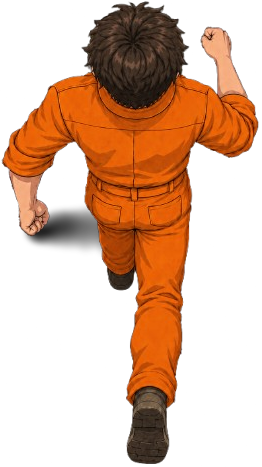
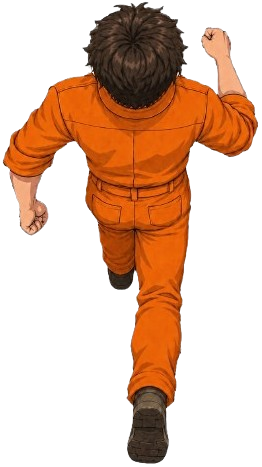
Added and removed game images

diff --git a/The Last Escape/Level1Variables.h b/The Last Escape/Level1Variables.h
@@ -51,27 +51,26 @@ bool playerRun = false;
 int playerFrame = 0;
 
 int guardX = 40;
-int guardY = 271;
+int guardY = 281;
 
 bool moveRight = true;
 int guardFrame = 0;
 int guardAnimCounter = 0;
 
-const int L1_GUARD_W = 85;    // was 75
-const int L1_GUARD_H = 115;   // was 105
+const int L1_GUARD_W = 85;    
+const int L1_GUARD_H = 115;   
 const int L1_PLAYER_RUN_W = 105;
 const int L1_PLAYER_RUN_H = 165;
-const int L1_PLAYER_STAND_W = 105;  // was 90 (width only)
-const int L1_PLAYER_STAND_H = 120;  // unchanged
+const int L1_PLAYER_STAND_W = 105;  
+const int L1_PLAYER_STAND_H = 120;  
 
-const int L1_CAUGHT_GUARD_W = 85;    // was 75
-const int L1_CAUGHT_GUARD_H = 115;   // was 105
-const int L1_CAUGHT_PLAYER_W = 105;  // was 90
-const int L1_CAUGHT_PLAYER_H = 130;  // was 120
-const int L1_CAUGHT_GUARD_Y = 271;   // was guardY (276)
-const int L1_CAUGHT_PLAYER_Y = 125;  // was playerY (130)
+const int L1_CAUGHT_GUARD_W = 85;    
+const int L1_CAUGHT_GUARD_H = 115;   
+const int L1_CAUGHT_PLAYER_W = 105;  
+const int L1_CAUGHT_PLAYER_H = 130;  
+const int L1_CAUGHT_GUARD_Y = 282;   
+const int L1_CAUGHT_PLAYER_Y = 125;  
 
-// The patrol-pattern question is only shown for 5 seconds now (was 10).
 const int L1_QUESTION_SECONDS = 5;
 
 bool puzzleStart = false;
@@ -182,18 +181,11 @@ int dodgeImgLeft1 = 0, dodgeImgLeft2 = 0;
 int dodgeImgRight1 = 0, dodgeImgRight2 = 0;
 int dodgeCaughtPlayerImg = 0;
 
-// Timer HUD image (timer.png) used by the Dodge Game screen. Drawn at the
-// same position/size as the score HUD (score.png), with the countdown value
-// drawn on top of it.
 int timerImg = 0;
 
 int dodgeCurrentAnimState = 0;
 int dodgeAnimTimer = 0;
 
-// After successfully dodging all the boxes, the character keeps auto-running
-// right towards the door (drawn in fallingboxbg.png) instead of freezing in
-// place, so the level ending reads as "reaching the door" rather than just
-// stopping mid-air.
 bool dodgeRunningToDoor = false;
 const int DODGE_DOOR_X = 750;
 
